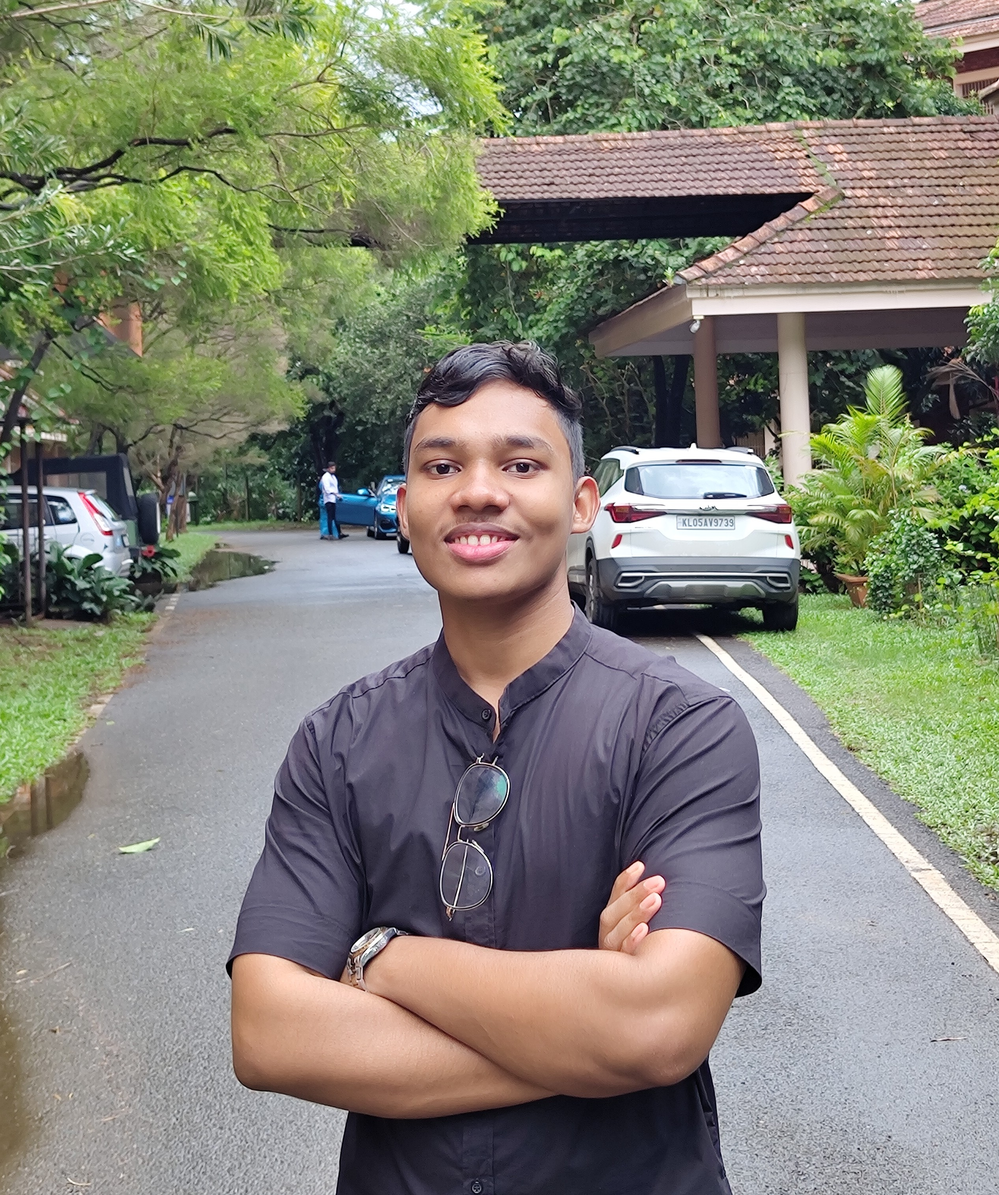
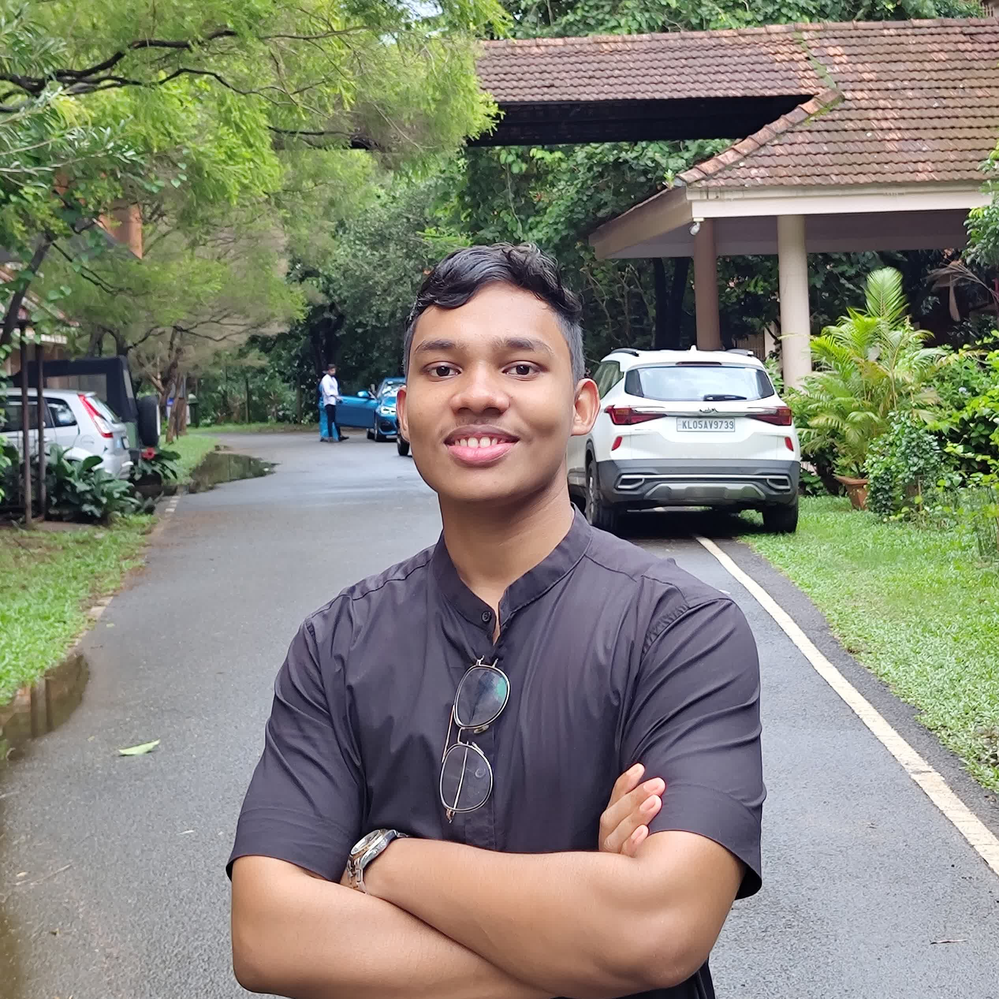
Update SIGHT society members and their roles for the 2024 execom, including new member images.

diff --git a/execoms/execom24.html b/execoms/execom24.html
@@ -747,68 +747,67 @@
 
                                     </div>
                                     <div class="testimonials-card-author">
-                                        <h4>Asst. Prof. Abubekar K M</h4>
-                                        <p>Faculty Advisor</p>
+                                        <h4>Asst. Prof. Abubeker M</h4>
+                                        <p>SIGHT Advisor</p>
                                     </div>
                                 </div>
                                 <div class="testimonials-card sight-society">
                                     <div class="testimonials-card-photo"><img
-                                            src="../assets/images/avatar/2023/glady-prince.jpg" alt="">
+                                            src="../assets/images/avatar/2024/Irin Rose Jaison.png" alt="">
                                     </div>
                                     <div class="testimonials-card-content">
 
                                     </div>
                                     <div class="testimonials-card-author">
-                                        <h4>GLADY PRINCE</h4>
+                                        <h4>Irin Rose Jaison</h4>
                                         <p>Chair</p>
                                     </div>
                                 </div>
                                 <div class="testimonials-card sight-society">
                                     <div class="testimonials-card-photo"><img
-                                            src="../assets/images/avatar/2023/irin.jpg" alt="">
+                                            src="../assets/images/avatar/2024/Elizabeth Antony.png" alt="">
                                     </div>
                                     <div class="testimonials-card-content">
 
                                     </div>
                                     <div class="testimonials-card-author">
-                                        <h4>IRIN ROSE JAISON</h4>
+                                        <h4>Elizabeth Antony</h4>
                                         <p>Vice Chair</p>
                                     </div>
                                 </div>
                                 <div class="testimonials-card sight-society">
                                     <div class="testimonials-card-photo"><img
-                                            src="../assets/images/avatar/2023/saya-nezrin.png" alt="">
+                                            src="../assets/images/avatar/2024/Alna MariaBiju.jpg" alt="">
                                     </div>
                                     <div class="testimonials-card-content">
 
                                     </div>
                                     <div class="testimonials-card-author">
-                                        <h4>SAYA NEZRIN</h4>
+                                        <h4>Alna Maria Biju</h4>
                                         <p>Secretary</p>
                                     </div>
                                 </div>
-
                                 <div class="testimonials-card sight-society">
                                     <div class="testimonials-card-photo"><img
-                                            src="../assets/images/avatar/2023/jayadev-p.jpg" alt="">
+                                            src="../assets/images/avatar/2024/Adhithya Rajesh_.jpg" alt="">
                                     </div>
                                     <div class="testimonials-card-content">
 
                                     </div>
                                     <div class="testimonials-card-author">
-                                        <h4>JAYADEV P</h4>
-                                        <p>Project Coordinator</p>
+                                        <h4>Adhithya Rajesh</h4>
+                                        <p>Event Coordinator</p>
                                     </div>
                                 </div>
                                 <div class="testimonials-card sight-society">
                                     <div class="testimonials-card-photo"><img
-                                            src="../assets/images/avatar/2023/dona-lisa-mathew.jpg" alt="">
+                                            src="../assets/images/avatar/2024/DaniXavier.jpg" alt="">
                                     </div>
                                     <div class="testimonials-card-content">
 
                                     </div>
                                     <div class="testimonials-card-author">
-                                        <h4>DONA LISA MATHEW</h4>
+                                        <h4>Dani Xavier</h4>
                                         <p>Project Coordinator</p>
                                     </div>
                                 </div>
